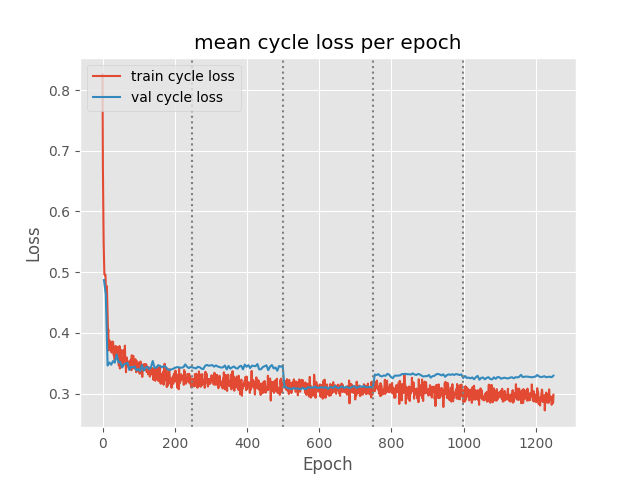
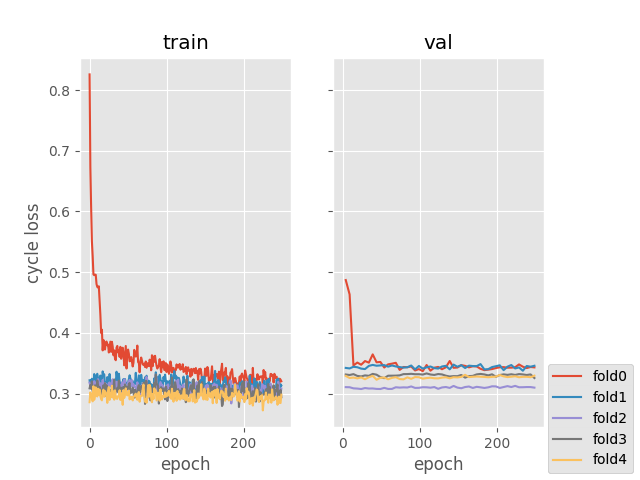
create separate subplots in create_log_plots

diff --git a/src/utils.py b/src/utils.py
@@ -9,86 +9,86 @@ except ModuleNotFoundError:
     from src import config
 
 
-def concat_logs(dict_):
-    """
-    Loss/metric values in train_logs are stored in separate lists for each
-    fold. Use this function to concat all lists in the train_logs dict
-    into a single list.
-    """
-    return [value for logs in dict_.values() for value in logs]
-
-
 def create_log_plots(
-    y_list,
-    fold,
-    epoch,
-    labels,
+    train_logs,
     output_path,
-    best_fold=None,
-    best_epoch=None,
-    best_dice=None,
-    title=None,
-    y_label=None,
-    log_y_scale=False
+    train_crit_keys=[],
+    val_crit_keys=[],
+    y_labels=None
 ):
-    """
-    Creates and saves plots to log training progress.
+    if isinstance(train_crit_keys, str):
+        train_crit_keys = [train_crit_keys]
+    if isinstance(val_crit_keys, str):
+        val_crit_keys = [val_crit_keys]
 
-    Args:
-        y_list (list of lists): Contains lists of y-axis values for each line
-            plot.
-        fold (int): Current fold.
-        epoch (int): Current epoch.
-        labels (list of str): List of labels for each line plot.
-        output_path (str): File path to save the generated plot.
-        best_fold (int, optional): Best fold corresponding to best_dice value.
-        best_epoch (int, optional): Best epoch corresponding to best_dice
-            value.
-        best_dice (float, optional): Best dice value.
-        title (str, optional): Title of the plot.
-        y_label (str, optional): Label for the y-axis.
-        log_y_scale (bool, optional): Set to 'True' to enable logarithmic scale
-            on y-axis.
-    """
+    rows = len(train_crit_keys) if train_crit_keys else len(val_crit_keys)
+    if train_crit_keys and val_crit_keys:
+        assert len(train_crit_keys) == len(val_crit_keys)
+        cols = 2
+    else:
+        cols = 1
+
+    if y_labels:
+        assert rows == len(y_labels)
 
     matplotlib.use("Agg")
     plt.style.use("ggplot")
-    plt.figure()
-    for y, label in zip(y_list, labels):
-        # length of y varies depending on whether it contains train or val data
-        if len(y) == fold*config.EPOCHS+epoch+1:  # train
-            x = list(range(0, len(y)))
-        else:  # val
-            x = list(range(
-                config.VAL_INTERVAL-1,
-                len(y)*config.VAL_INTERVAL,
-                config.VAL_INTERVAL
-            ))
-        plt.plot(x, y, label=label)
 
-    if all((best_fold, best_epoch, best_dice)):
-        plt.plot(
-            best_fold*config.EPOCHS+best_epoch,
-            best_dice,
-            "x",
-            markersize=10,
-            markeredgewidth=3
-        )
+    fig, ax = plt.subplots(rows, cols, sharex=True, sharey=True)
 
-    # add vertical lines representing each fold
-    for fold_line in range(
-        config.EPOCHS-1,
-        (fold+1)*config.EPOCHS-1,
-        config.EPOCHS
-    ):
-        plt.axvline(x=fold_line, linestyle="dotted", color="grey")
+    for row in range(rows):
+        for fold in range(config.FOLDS):
+            if len(train_crit_keys) == 0 and len(val_crit_keys) == 1:
+                val_ax = ax
+            elif len(train_crit_keys) == 1 and len(val_crit_keys) == 0:
+                train_ax = ax
+            elif len(train_crit_keys) == 0 and len(val_crit_keys) != 0:
+                val_ax = ax[row]
+            elif len(train_crit_keys) != 0 and len(val_crit_keys) == 0:
+                train_ax = ax[row]
+            elif len(train_crit_keys) == 1 and len(val_crit_keys) == 1:
+                train_ax = ax[0]
+                val_ax = ax[1]
+            else:
+                train_ax = ax[row, 0]
+                val_ax = ax[row, 1]
 
-    plt.title(title)
-    plt.xlabel("Epoch")
-    plt.ylabel(y_label)
-    if log_y_scale:
-        plt.yscale("log")
-    plt.legend(loc="upper left")
+            if train_crit_keys:
+                train_y_values = train_logs[train_crit_keys[row]][
+                    f"fold{fold}"
+                ]
+                train_x_values = list(range(len(train_y_values)))
+                train_ax.plot(train_x_values, train_y_values)
+            if val_crit_keys:
+                val_y_values = train_logs[val_crit_keys[row]][f"fold{fold}"]
+                val_x_values = list(range(
+                    config.VAL_INTERVAL-1,
+                    config.VAL_INTERVAL*len(val_y_values),
+                    config.VAL_INTERVAL)
+                )
+                val_ax.plot(val_x_values, val_y_values)
+
+            if y_labels and train_crit_keys:
+                train_ax.set_ylabel(y_labels[row])
+            elif y_labels and val_crit_keys:
+                val_ax.set_ylabel(y_labels[row])
+
+            if row == 0 and train_crit_keys:
+                train_ax.set_title("train")
+            if row == 0 and val_crit_keys:
+                val_ax.set_title("val")
+
+            if row == rows - 1 and train_crit_keys:
+                train_ax.set_xlabel("epoch")
+            if row == rows - 1 and val_crit_keys:
+                val_ax.set_xlabel("epoch")
+
+            fig.legend(
+                [f"fold{fold}" for fold in range(config.FOLDS)],
+                loc="lower right"
+            )
+
+    plt.subplots_adjust(right=0.85)
     plt.savefig(output_path)
     plt.close()
 

diff --git a/src/train.py b/src/train.py
@@ -356,56 +356,37 @@ for fold, (train_indices, val_indices) in enumerate(fold_indices):
             scheduler.step(mean_val_loss_pred)
 
             utils.create_log_plots(
-                y_list=[
-                    utils.concat_logs(train_logs["mean_train_loss_pred"]),
-                    utils.concat_logs(train_logs["mean_val_loss_pred"])
-                ],
-                fold=fold,
-                epoch=epoch,
-                labels=["train prediction loss", "val prediction loss"],
+                train_logs=train_logs,
+                train_crit_keys=["mean_train_loss_pred"],
+                val_crit_keys=["mean_val_loss_pred"],
                 output_path=config.pred_loss_plot_path,
-                title="mean training/validation prediction loss per epoch",
-                y_label="Loss"
+                y_labels=["pred loss"],
             )
             utils.create_log_plots(
-                y_list=[
-                    utils.concat_logs(train_logs["mean_train_loss_cycle"]),
-                    utils.concat_logs(train_logs["mean_val_loss_cycle"])
-                ],
-                fold=fold,
-                epoch=epoch,
-                labels=["train cycle loss", "val cycle loss"],
+                train_logs=train_logs,
+                train_crit_keys=["mean_train_loss_cycle"],
+                val_crit_keys=["mean_val_loss_cycle"],
                 output_path=config.cycle_loss_plot_path,
-                title="mean cycle loss per epoch",
-                y_label="Loss"
+                y_labels=["cycle loss"],
             )
             utils.create_log_plots(
-                y_list=[
-                    utils.concat_logs(train_logs["mean_train_loss_kl_A2B"]),
-                    utils.concat_logs(train_logs["mean_train_loss_kl_B2A"])
+                train_logs=train_logs,
+                train_crit_keys=[
+                    "mean_train_loss_kl_A2B",
+                    "mean_train_loss_kl_B2A"
                 ],
-                fold=fold,
-                epoch=epoch,
-                labels=["train KL loss (net_A2B)", "train KL loss (net_B2A)"],
                 output_path=config.kl_loss_plot_path,
-                title="mean training KL loss per epoch",
-                y_label="Loss"
+                y_labels=["KL loss (net_A2B)", "KL loss (net_B2A)"],
             )
             utils.create_log_plots(
-                y_list=[
-                    utils.concat_logs(train_logs["mean_val_dice"]),
-                    utils.concat_logs(train_logs["mean_val_precision"]),
-                    utils.concat_logs(train_logs["mean_val_recall"])
+                train_logs=train_logs,
+                val_crit_keys=[
+                    "mean_val_dice",
+                    "mean_val_precision",
+                    "mean_val_recall"
                 ],
-                fold=fold,
-                epoch=epoch,
-                labels=["val dice", "val precision", "val recall"],
                 output_path=config.val_metric_plot_path,
-                best_fold=best_fold,
-                best_epoch=best_epoch,
-                best_dice=best_dice,
-                title="mean validation metrics per epoch",
-                y_label="Metric"
+                y_labels=["dice", "precision", "recall"],
             )
 
             with open(config.train_logs_path, "w") as train_logs_file:
